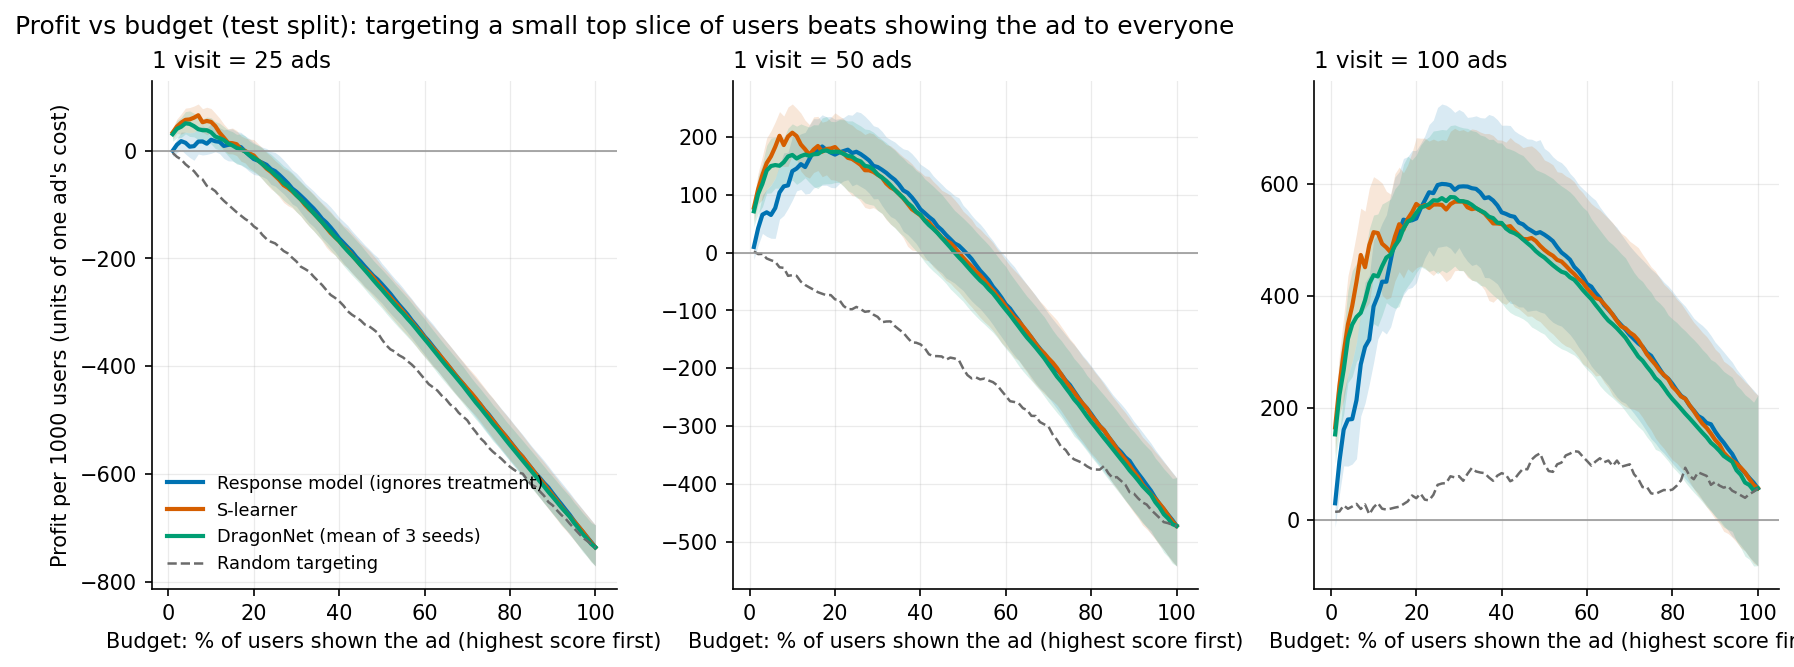
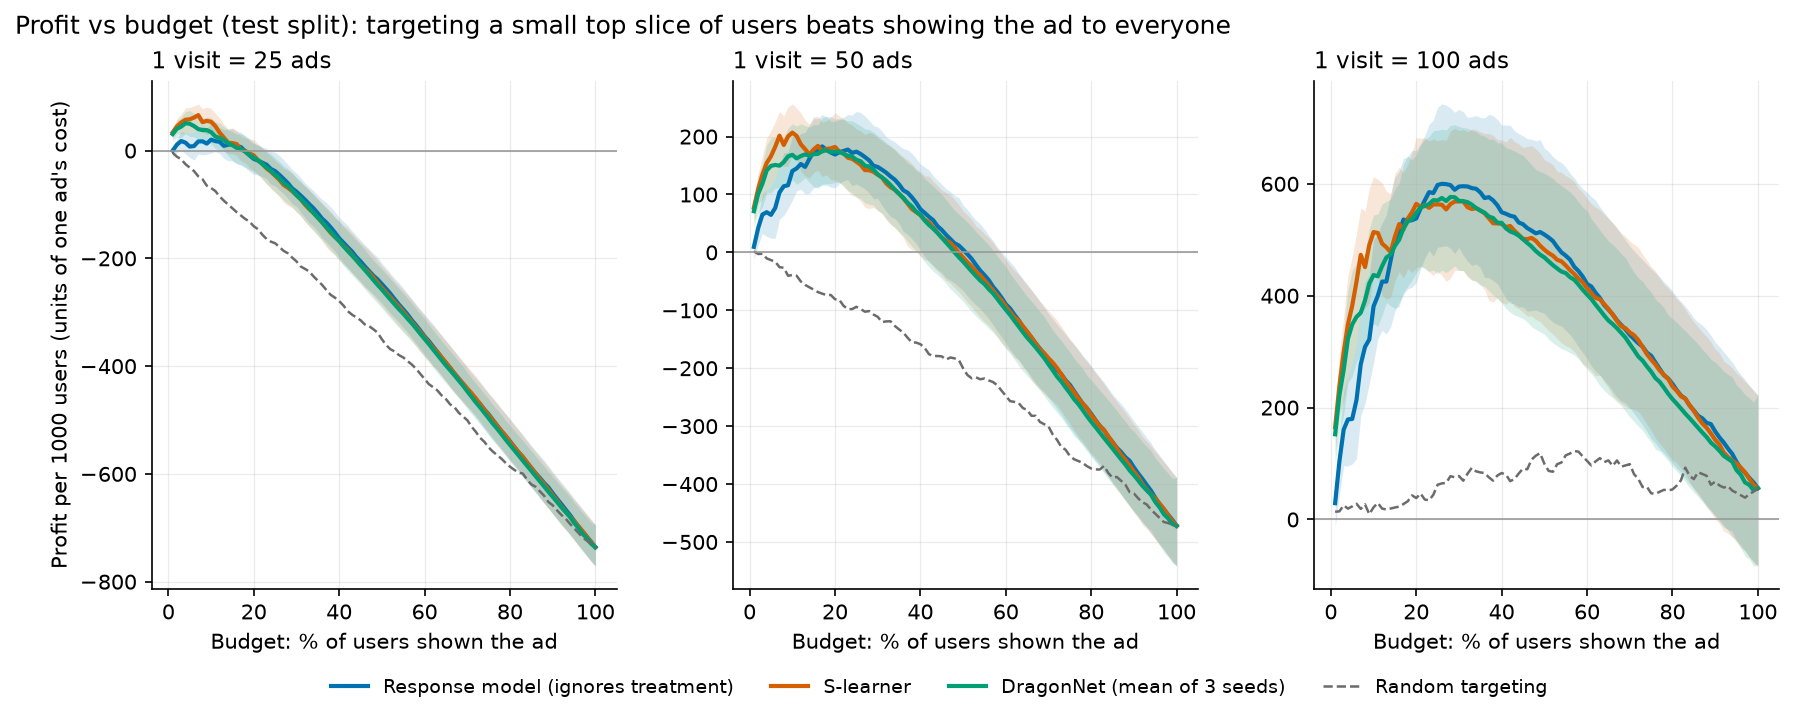
Final charts: Qini (test), profit vs budget (test), SHAP comparison

diff --git a/make_charts.py b/make_charts.py
@@ -22,7 +22,9 @@ SEEDS = [0, 1, 2]
 VS = [25, 50, 100]
 N_BOOT = 50
 
-lab = pd.read_parquet("data/criteo.parquet", columns=["visit", "treatment"]).loc[np.load("splits/test_idx.npy")]
+lab = pd.read_parquet("data/criteo.parquet", columns=["visit", "treatment"]).loc[
+    np.load("splits/test_idx.npy")
+]
 y, t = lab["visit"].to_numpy(), lab["treatment"].to_numpy()
 
 scores = {
@@ -58,35 +60,62 @@ for ax, V in zip(axes, VS):
         bp = np.array([b[n][0] * (b[n][1] * V - 1) * 1000 for b in boots])
         lo, hi = np.percentile(bp, [2.5, 97.5], axis=0)
         if n == "random":
-            ax.plot(D.KS * 100, p, color="#6b6b6b", ls="--", lw=1.2, label="Random targeting")
+            ax.plot(
+                D.KS * 100,
+                p,
+                color="#6b6b6b",
+                ls="--",
+                lw=1.2,
+                label="Random targeting",
+            )
         else:
             col, _, label = Q.STYLE[n]
             ax.plot(D.KS * 100, p, color=col, lw=2, label=label)
             ax.fill_between(D.KS * 100, lo, hi, color=col, alpha=0.15, lw=0)
     ax.axhline(0, color="#999999", lw=0.8)
     ax.set_title(f"1 visit = {V} ads", fontsize=11, loc="left")
-    ax.set_xlabel("Budget: % of users shown the ad (highest score first)")
+    ax.set_xlabel("Budget: % of users shown the ad")
     ax.grid(alpha=0.25, lw=0.6)
     for s in ("top", "right"):
         ax.spines[s].set_visible(False)
 axes[0].set_ylabel("Profit per 1000 users (units of one ad's cost)")
-axes[0].legend(frameon=False, fontsize=8.5, loc="lower left")
-fig.suptitle("Profit vs budget (test split): targeting a small top slice of users beats showing the ad to everyone",
-             x=0.06, ha="left", fontsize=12)
+h, l = axes[0].get_legend_handles_labels()
+fig.legend(
+    h,
+    l,
+    loc="lower center",
+    ncol=4,
+    frameon=False,
+    fontsize=9,
+    bbox_to_anchor=(0.5, -0.08),
+)
+fig.suptitle(
+    "Profit vs budget (test split): targeting a small top slice of users beats showing the ad to everyone",
+    x=0.06,
+    ha="left",
+    fontsize=12,
+)
 fig.savefig("results/profit_vs_budget_test.png", dpi=150, bbox_inches="tight")
 plt.close(fig)
 print("saved results/profit_vs_budget_test.png")
 
 # 3) SHAP side by side (images made earlier by shap_analysis.py, validation split)
-imgs = [("results/shap_baseline_val.png", "Response model: who visits anyway"),
-        ("results/shap_s_learner_val.png", "S-learner: who the ad moves")]
+imgs = [
+    ("results/shap_baseline_val.png", "Response model: who visits anyway"),
+    ("results/shap_s_learner_val.png", "S-learner: who the ad moves"),
+]
 fig, axes = plt.subplots(1, 2, figsize=(14, 5.6))
 for ax, (p, ttl) in zip(axes, imgs):
     ax.imshow(mpimg.imread(p))
     ax.axis("off")
     ax.set_title(ttl, fontsize=12, loc="left")
-fig.suptitle("SHAP feature effects (validation split; surrogate R2 >= 0.99)", x=0.06, ha="left", fontsize=12)
-fig.tight_layout()
+fig.suptitle(
+    "SHAP feature effects (validation split; surrogate R2 >= 0.99)",
+    x=0.06,
+    ha="left",
+    fontsize=12,
+)
+fig.tight_layout(rect=[0, 0, 1, 0.93])
 fig.savefig("results/shap_comparison.png", dpi=150, bbox_inches="tight")
 plt.close(fig)
 print("saved results/shap_comparison.png")
